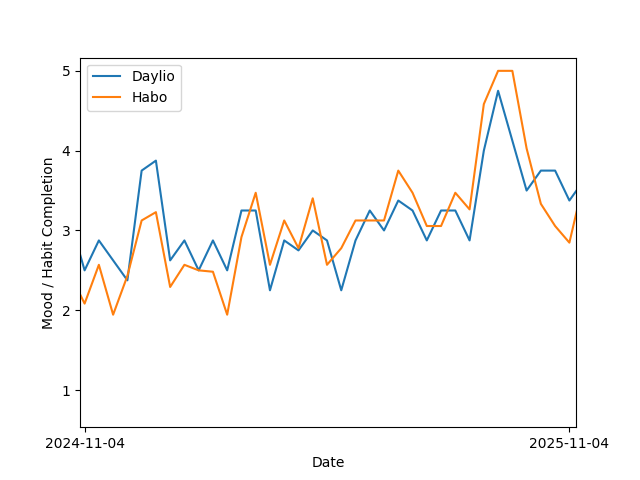
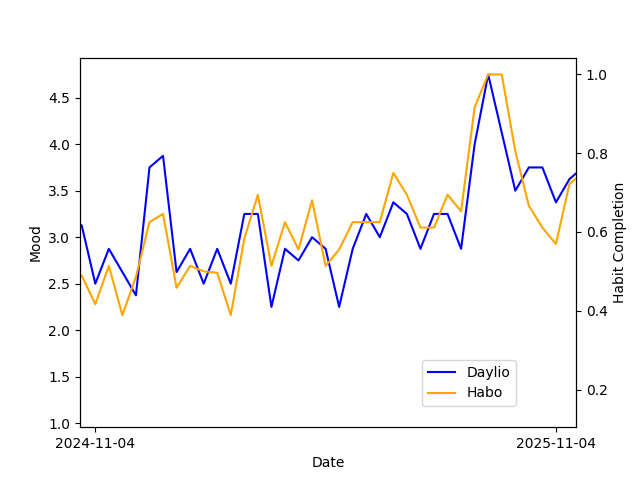
Fix scatter y-axis and add double y-axis to line plot

diff --git a/line.py b/line.py
@@ -1,4 +1,4 @@
-#v0.2
+#v0.3
 
 import analysis
 import habo
@@ -31,7 +31,7 @@ y_habo=[]
 date=datetime.strptime(start_date, "%Y-%m-%d")
 for i in range(analysis.get_total_days(HABO_FILENAME,DAYLIO_FILENAME)):
     y_daylio.append(daylio.get_mood_for_date(date.strftime("%Y-%m-%d"),DAYLIO_FILENAME))
-    y_habo.append(5*(habo.get_completion_for_day(date.strftime("%Y-%m-%d"),HABO_FILENAME)))
+    y_habo.append(habo.get_completion_for_day(date.strftime("%Y-%m-%d"),HABO_FILENAME))
     date+=timedelta(days=1)
 
 print("Generating line plot...")
@@ -43,10 +43,16 @@ rolling_average(y_daylio)
 rolling_average(y_habo)
 x = np.arange(0, len(y_daylio), 1)
 
-plt.plot(x,y_daylio,label="Daylio")
-plt.plot(x,y_habo,label="Habo")
-plt.legend()
-plt.xticks([x[50],x[len(x)-10]],labels=["2024-11-04", "2025-11-04"])
-plt.xlabel("Date")
-plt.ylabel("Mood / Habit Completion")
+fig,daylio_axis=plt.subplots()
+daylio_line = daylio_axis.plot(x,y_daylio,label="Daylio",color="blue")
+daylio_axis.set_ylabel("Mood")
+daylio_axis.set_xticks([x[50],x[len(x)-10]],labels=["2024-11-04", "2025-11-04"]) #needs update
+daylio_axis.set_xlabel("Date")
+
+habo_axis = daylio_axis.twinx()
+habo_line = habo_axis.plot(x,y_habo,label="Habo",color="orange")
+habo_axis.set_ylabel("Habit Completion")
+
+fig.legend(bbox_to_anchor=(.6,.3),draggable=True)
+print("Done")
 plt.show()

diff --git a/scatter.py b/scatter.py
@@ -30,7 +30,9 @@ daylio_cmap = ListedColormap(daylio.DAYLIO_MOOD_COLOURS)
 plt.scatter(data_x, data_y,c=data_x,cmap=daylio_cmap)
 plt.ylim(0.0, 1.2)
 plt.xticks(list(daylio.DAYLIO_MOOD_TO_INT.values()),labels=list(daylio.DAYLIO_MOOD_TO_INT.keys()))
-#plt.yticks([0.0,0.2,0.4,0.6,0.8,1.0])
+plt.yticks([0.0,0.2,0.4,0.6,0.8,1.0])
 plt.xlabel("Mood")
 plt.ylabel("Habit Completion")
+
+print("Done")
 plt.show()
